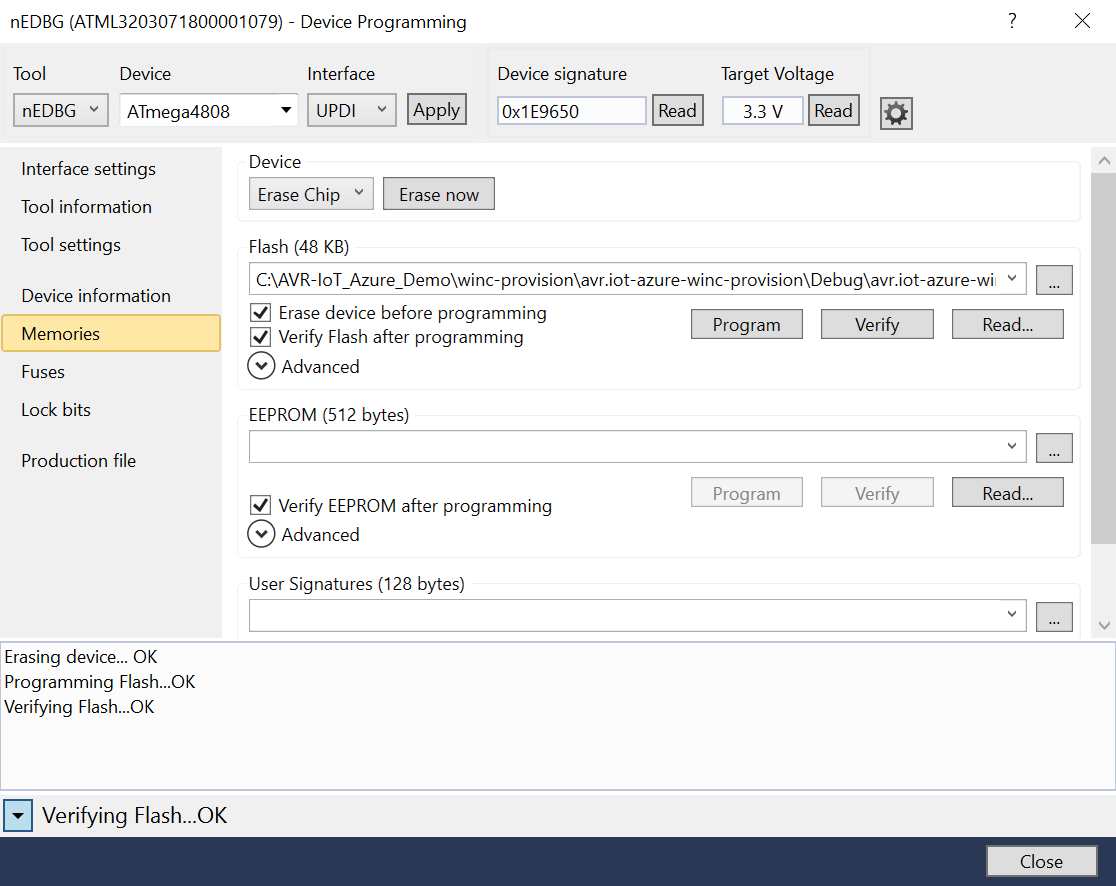
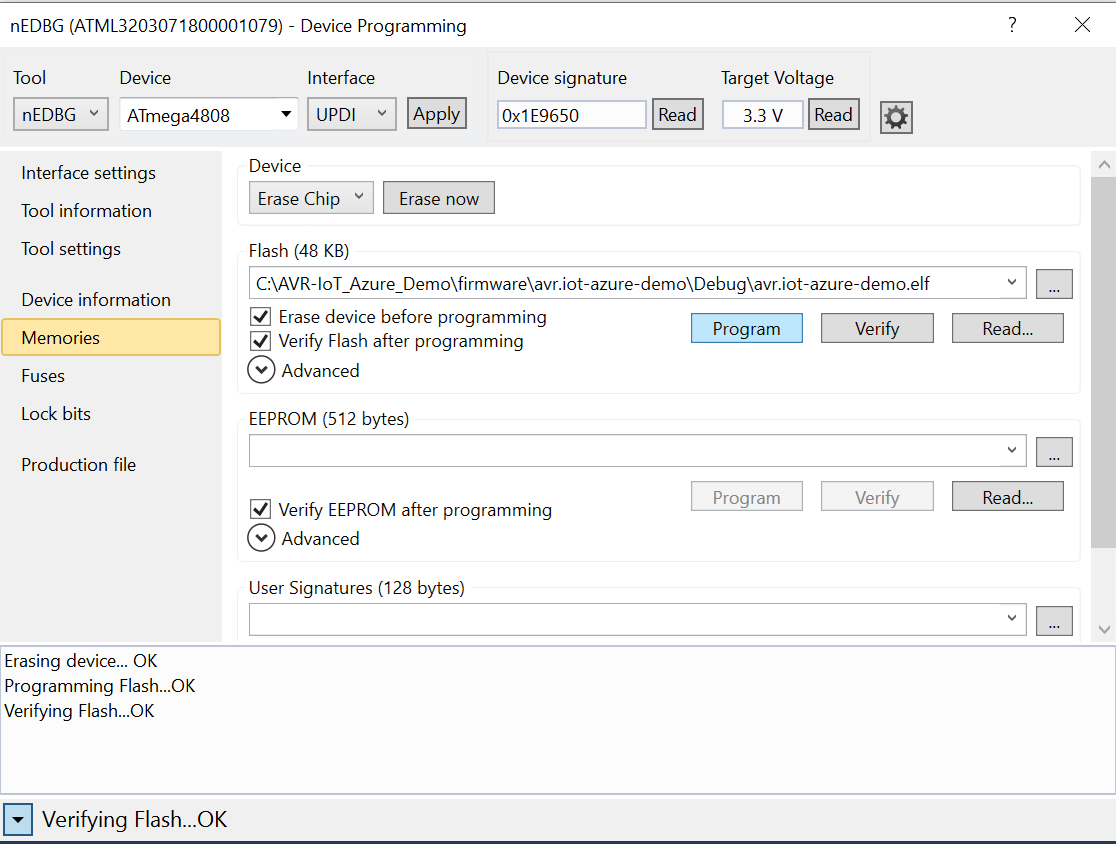
Update README.md

diff --git a/README.md b/README.md
@@ -2,17 +2,9 @@
 
 ## Introduction
 
- This document describes how to connect the AVR-IoT WA/WG Development Board (featuring an 8-bit ATmega4808 AVR MCU, ATECC608A secure element, and ATWINC1510 Wi-Fi module) to Azure IoT Hub. The AVR-IoT WA/WG Development Board will be provisioned for use with Azure IoT services using self-signed X.509 certificate-based authentication.
+ This document describes how to connect the AVR-IoT [WA](https://www.microchip.com/en-us/development-tool/EV15R70A) or [WG](https://www.microchip.com/en-us/development-tool/AC164160) Development Board (featuring an 8-bit [ATmega4808](https://www.microchip.com/en-us/product/ATMEGA4808) AVR MCU, [ATECC608A](https://www.microchip.com/en-us/product/atecc608a) secure element, and [ATWINC1510](https://www.microchip.com/en-us/product/ATWINC1510) Wi-Fi network controller module) to Azure IoT Hub. The AVR-IoT WA/WG Development Board will be provisioned for use with Azure IoT services using self-signed X.509 certificate-based authentication.
 
-## Software Requirements
-
-- [Latest Python Release](https://www.python.org/downloads/)
-
-	NOTE: On the installation screen, check the box for "Add python.exe to PATH"
-
-- [Python 3.5.4](https://www.python.org/downloads/release/python-354/)
-
-	NOTE: On the installation screen, check the box for "Add python.exe to PATH"
+## Software Installation Requirements
 
 - [Azure CLI](https://docs.microsoft.com/en-us/cli/azure/install-azure-cli?view=azure-cli-latest)
 
@@ -30,11 +22,13 @@
 
 2.	Sign into the [Azure Portal](https://portal.azure.com/).
 
-3.	Follow the steps in the section [Create an IoT Hub](https://docs.microsoft.com/en-us/azure/iot-hub/quickstart-send-telemetry-node#create-an-iot-hub) to use the Azure CLI to create your own resource group and IoT Hub within the resource group.
+3.	Follow the steps in the section titled ["Create an IoT Hub"](https://docs.microsoft.com/en-us/azure/iot-hub/quickstart-send-telemetry-node#create-an-iot-hub) to use the Azure CLI to create your own resource group and IoT Hub within the resource group.
 
-4.	Clone this repository (or download ZIP file).
+4.	Clone this repository using [Git Command Line](https://git-scm.com/downloads) or [GitHub Desktop](https://desktop.github.com). Alternatively, you can download the ZIP file of this repository and extract the ZIP file directly onto your PC's hard drive.
 
-5.	Connect the AVR-IoT development board to the PC using a standard micro-USB cable. Upgrade the [ATWINC1510](https://www.microchip.com/en-us/product/ATWINC1510) module's internal firmware by opening a Command Prompt or PowerShell window and navigating to the location of the [IoT Provisioning Tool](https://www.microchip.com/en-us/solutions/internet-of-things/iot-development-kits/iot-provisioning-tool) which was previously downloaded (e.g. \iotprovision-bin-2.10.7.12.134\windows64). Execute the following command line:
+	![GitHub 01](./img/github_01_edit.png)
+
+5.	Connect the AVR-IoT development board to the PC using a standard micro-USB cable. Generate and provision the required X.509 certificates by opening a Command Prompt or PowerShell window. Navigate to the location of the [IoT Provisioning Tool](https://www.microchip.com/en-us/solutions/internet-of-things/iot-development-kits/iot-provisioning-tool) which was previously downloaded (e.g. \iotprovision-bin-2.10.7.12.134\windows64). Execute the following command line:
 
     ```shell
 	.\iotprovision-bin.exe -c azure
@@ -42,82 +36,82 @@
 
     NOTE: Ignore the error messages at the end regarding 'demo-azure'
 
-6.	Launch the Microchip Studio IDE. A picture of the AVR-IoT development board should appear in its own dedicated window within the IDE.
+6.	The [IoT Provisioning Tool](https://www.microchip.com/en-us/solutions/internet-of-things/iot-development-kits/iot-provisioning-tool) should have created a hidden folder named `.microchip_iot` located in the user's "home" directory (e.g. C:\Users\username). Configure your O.S. to show hidden files & folders, and then confirm that the Root CA, Signer CA, and device certificates were generated in this hidden folder. The device certificate wiil be located in a sub-folder corresponding to the kit's USB serial number (e.g. ATML3203071800001079).
+
+	![CRT 01](./img/crt_01.png)
+
+7. Create copies of the 3 certificates (root-ca.crt, signer-ca.crt, device.crt) and rename them using the *.pem extension (root-ca.pem, signer-ca.pem, device.pem).
+
+	![PEM 01](./img/pem_01.png)
+
+8. In the kit's USB serial number sub-folder, open the `azure-device-id.txt` file and note the device ID that is used for the Common Name field in the device certificate (e.g. sn0123460B75A64D68FE). Save this device ID information for use in a future step as this string will be used to identify your device's connection to the IoT Hub.
+
+9.	Launch the Microchip Studio IDE. A picture of the AVR-IoT development board should appear in its own dedicated window within the IDE - showing that Microchip Studio has successfully connected to the AVR-IoT development board. Do not proceed until the connection to the board has been verified with the appearance of this pop-up window.
 
 	![Kit Window](./img/Kit_Window.png)
 
-7.	Program the *`avr.iot-azure-winc-provision.atsln`* project (located in the *“AVR-IoT_Azure_Demo\winc-provision”* directory) onto the AVR-IoT board.
+10.	Modify the credentials of your wireless network, IoT Hub, and device in the provided example demo project.
+	- Open the *`avr.iot-azure-demo.atsln`* project located in the *`AVR-IoT_Azure_Demo\firmware`* folder.
+		![Studio Step 01](./img/Studio_Step_01.png)
+		![Studio Step 02a](./img/Studio_Step_02a.png)
+	- In the Solution Explorer window, expand the *“cloud”* sub-folder and open the `cloud.h` header file by double-clicking on it.
+		![Studio Step 02b](./img/Studio_Step_02b.png)
+	- Modify the SSID and network password (PSK) for your wireless Access Point.
+		![Studio Step 02c](./img/Studio_Step_02c.png)	
+	- Modify the `COMMON_NAME` with your specific device ID string which was discovered in a previous step.
+		![Studio Step 02d](./img/Studio_Step_02d.png)
+	- Go to the [Azure Portal](https://portal.azure.com/) and click on your IoT Hub name.
+		![Studio Step 02de](./img/Studio_Step_02de_edit.png)
+	- Copy the name shown in the IoT Hub's `Hostname` field by clicking on the icon to the right of the string.
+		![Studio Step 02e](./img/Studio_Step_02e_edit.png)
+	- Modify (by pasting from the clipboard) the `HOST_ENDPOINT` definition with the value copied from the `Hostname` field.
+		![Studio Step 02f](./img/Studio_Step_02f.png)
+	- Review and confirm that the 4 required settings were updated correctly for your scenario, and that every value is enclosed in double quotes. The following snippet is an example of one possible scenario:
+		![Studio Step 02g](./img/Studio_Step_02g_edit.png)
 
+11. Rebuild and program the solution onto the AVR-IoT development board.
 
-	![Studio Step 01](./img/Studio_Step_01.png)
-	![Studio Step 02](./img/Studio_Step_02.png)
 	![Studio Step 03](./img/Studio_Step_03.png)
 	![Studio Step 04](./img/Studio_Step_04.png)
-	![Studio Step 05](./img/Studio_Step_05.png)
-	![Studio Step 06](./img/Studio_Step_06.png)
+	![Studio Step 05](./img/Studio_Step_05_edit.png)
+	![Studio Step 06](./img/Studio_Step_06_edit.png)
 
-8. Open a Command Prompt or PowerShell window (run as an Administrator).
+12. Go back into your [Azure Portal](https://portal.azure.com/) account and click on your IoT Hub. Using the left-hand navigation pane, click on `Devices` and then `+ Add Device`
 
-9.	Navigate to the directory *“AVR-IoT_Azure_Demo\scripts”*.
+	![Hub Step 01](./img/Hub_Step_01_edit.png)
 
-10. Execute the following command lines:
-    ```shell
-	python --version
-	py --version
-	python -m pip install --upgrade pip
-	pip install -r .\requirements.txt
-	pip freeze
-	pip --version
-    ```
-	![Python and Py Versions](./img/Python_Py_Versions.png)
+13. Enter/paste your Device ID and select `X.509 CA Signed` for `Authentication type`, then hit `Save`. Confirm that your new device has been successfully registered with your IoT Hub.
 
-11. Execute the following Python script on the command line:
-    ```shell
-	.\create_and_verify_certs.ps1
-    ```
+	![Hub Step 02a](./img/Hub_Step_02a.png)	
+	![Hub Step 02b](./img/Hub_Step_02b.png)	
 
-	NOTE: Ignore the "Cannot rename" warning message. The unique name for the signer certificate can be any word you choose (no spaces)
+14. Using the left-hand navigation pane, click on `Certificates` under `Security settings`, then click on `+ Add`
 
-12. Execute the following Python script on the command line:
-    ```shell
-	.\create_device_and_provision.ps1
-    ```
+	![Hub Step 03](./img/Hub_Step_03_edit.png)
 
-	NOTES: When asked to enter the COM port of the device, use any terminal emulator program (e.g. TeraTerm) or Windows Device Manager to figure out the COM port which should be typed at the prompt.
+15. Type in any arbitrary Certificate name (e.g. your initials), upload the `signer-ca.pem` file that was generated in a previous step, check the box for "Set certificate status to verified on upload", then click on `Save`. The uploaded signer CA certificate can now be used by your IoT Hub to authenticate devices which have a leaf certificate derived from the signer CA certificate.
 
-	![Create Device and Provision Output](./img/Device_Prov_Script.png)
+	![Hub Step 04](./img/Hub_Step_04.png)
+	![Hub Step 05](./img/Hub_Step_05.png)
 
-13.	Copy (save) the device ID from the output of the PowerShell window.
+16. Power cycle the AVR-IoT development board by unplugging and then plugging the micro-USB cable back into the board's USB connector. After a few moments, the Blue (WIFI) and Green (CONN) LEDs should turn constantly ON while the Yellow (DATA) LED blinks - signifying that the board has connected to the IoT Hub and is periodically sending data to the Cloud.
 
-	![Device Name](./img/DeviceName.PNG)
+17. In your [Azure Portal](https://portal.azure.com/) account, using the left-hand navigation pane, click on `Devices` under `Device management`, then click on your device name
 
-14.	Using the Microchip Studio IDE, modify the credentials of the network, hub and device in the example demo project.
-	1. Open the *`avr.iot-azure-demo.atsln`* project located in the *“AVR-IoT_Azure_Demo\firmware”* folder.
-	2. Browse to the *“cloud”* sub-folder and open the `cloud.h` header file.
-	3. Modify the network password and ssid for your wireless Access Point.
-	4. Modify the `COMMON_NAME` with the device ID value from step 14.
-	5. Go to the Azure portal and click on IoT Hub name. Copy the name from the Hostname tab.
-	6. Modify the `HOST_ENDPOINT` definition with the value copied from the Hostname tab.
+	![Hub Step 06](./img/Hub_Step_06_edit.png)	
 
-15. Program the `avr.iot-azure-demo.atsln` project onto the AVR-IoT board.
+18. Click on the `Device Twin` icon, then confirm that `"connectionState"` = **"Connected"**
 
-16. Go back into your Azure Portal account and launch a Cloud Shell prompt.
+	![Hub Step 07](./img/Hub_Step_07_edit.png)	
+	![Hub Step 08](./img/Hub_Step_08_edit.png)
 
-	![Cloud Schell Icon](./img/CloudSchell.PNG)
-
-17. Execute the following command line on the Cloud Shell prompt
-    ```shell
-	az extension add --name azure-cli-iot-ext
-    ```
-
-18. Execute the following command line on the Cloud Shell prompt
+19. Monitor the telemetry messages being sent from the device to your IoT Hub. Open a Command Prompt or PowerShell window and execute the following command line:
 	```shell
 	az iot hub monitor-events --hub-name {MyIoTHubName} --device-id {MyDeviceID}
 	```
-
 	Note: replace *{MyIoTHubName}* and *{MyDeviceID}* with their actual names
 
-19. For better visualization of data, open a Command Prompt or PowerShell window. Navigate to the *“AVR-IoT_Azure_Demo\scripts”* directory and execute the following command line:  
-	```shell
-	.\create_web_app.ps1
-	```
+20. Each telemetry message contains a value ("L") corresponding to the on-board light sensor (lumens) and a second value ("T") corresponding to the on-board temperature sensor (deg C). Increase the ambient light source shining directly on top of the board and observe that the "L" value increases substantially compared to before the additional light source was applied. When finished, hit [CTRL-Z] to exit the monitoring process.
+
+	![Monitor Step 01](./img/Monitor_Step_01.png)
+	
